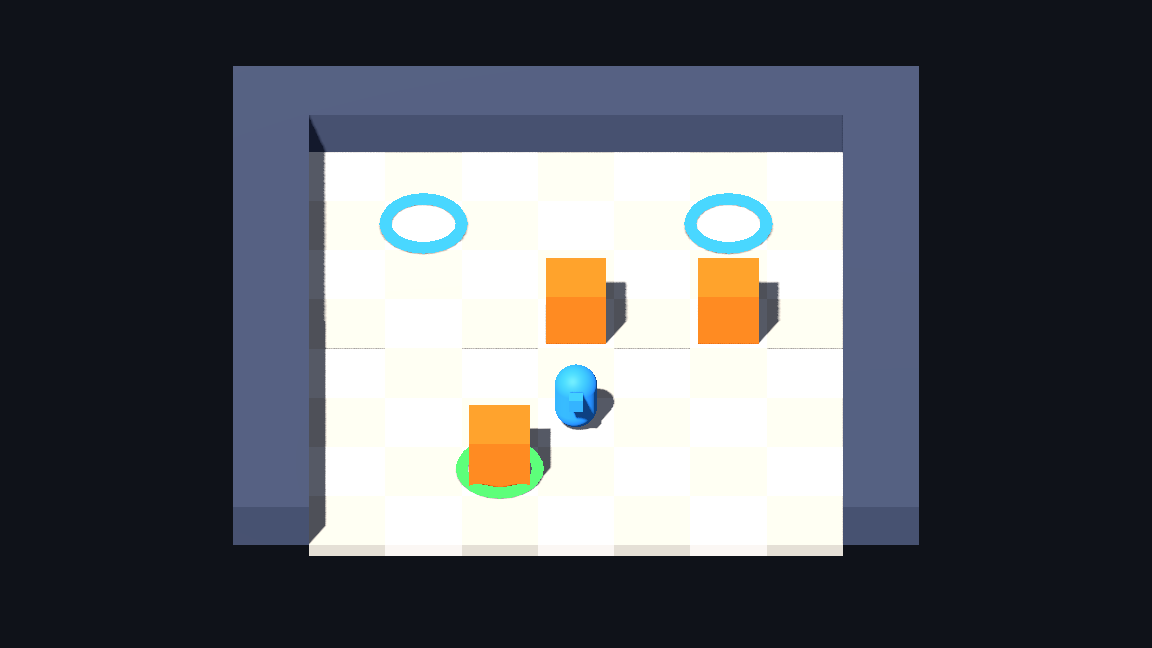
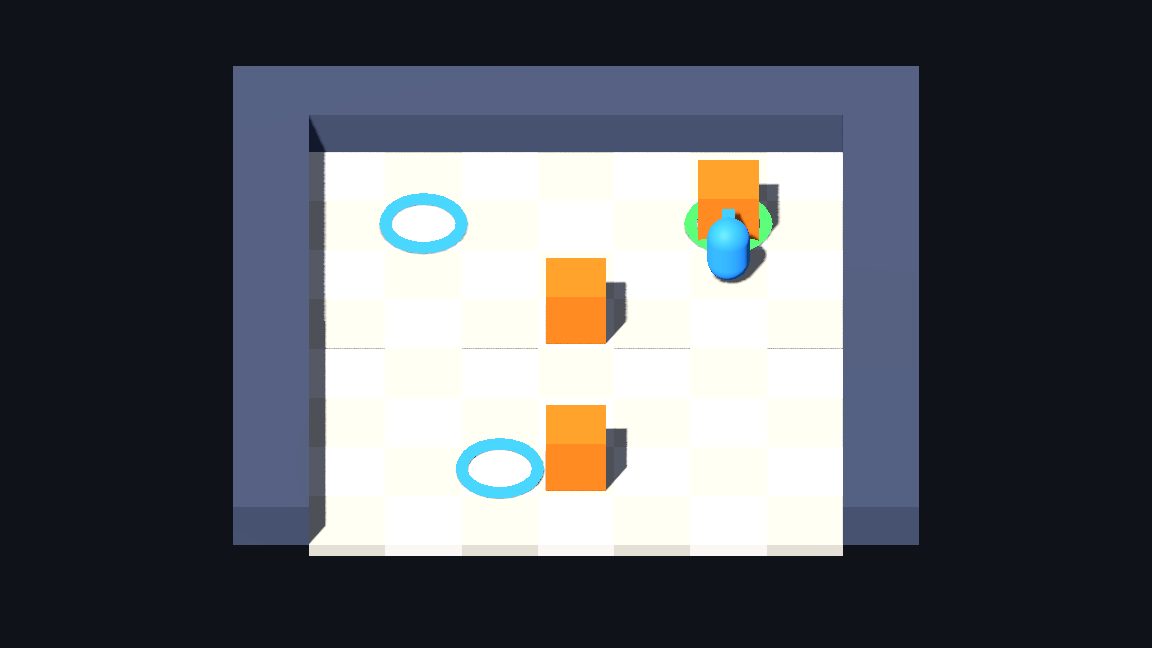
evidence: recapture story-001 with --demo=pushed

Changed region(s): [[0.375, 0.5556, 0.5625, 0.7716], [0.5938, 0.2469, 0.6875, 0.5556]]

diff --git a/production/qa/evidence/story-001/index.md b/production/qa/evidence/story-001/index.md
@@ -1,8 +1,8 @@
 # Evidence: story-001
 
-Run result: OBSERVED — the 1152x648 window shows the 3D diorama: a pale checker floor inside slate walls, three orange crates, a blue player capsule, two cyan empty goal rings, and one green placed-goal ring under the crate at (3, 7).
+Run result: OBSERVED — the 1152x648 frame captured with --demo=pushed shows exactly one crate on the (6, 2) goal (green ring) and the other two goals (2, 2) and (3, 7) empty (cyan rings), with the player at (6, 3); the same occupancy and player cell are asserted by the headless demo test.
 
-- `story-001-1.png` — `python scripts/studio.py capture --out production/qa/evidence/story-001/story-001-1.png`: the playable board at start; the crate on the goal shows the green ring, while the two empty goals at (2, 2) and (6, 2) show cyan rings.
-- `check.log` — `python scripts/studio.py check` output: exit 0, `[check] import OK`, and all five changed scripts parse.
-- `test.log` — `python scripts/studio.py test` output: exit 0, `PASS: 46 checks passed`; the three `ERROR: level '<id>'` lines are the expected loader rejections asserted by the test.
-- `capture.log` — `python scripts/studio.py capture --out production/qa/evidence/story-001/story-001-1.png` output: exit 0, a 1152x648 PNG of 28391 bytes, no script errors.
+- `story-001-1.png` — `python scripts/studio.py capture --out production/qa/evidence/story-001/story-001-1.png -- --demo=pushed`: the demo-pushed frame; the crate on (6, 2) sits inside the green placed-goal ring, the empty goals at (2, 2) and (3, 7) show cyan rings, and the other two crates stay on floor.
+- `check.log` — `python scripts/studio.py check` output: exit 0, `[check] import OK`, and all changed scripts (including `src/sokoban_demo.gd`) parse.
+- `test.log` — `python scripts/studio.py test` output: exit 0, `PASS: 58 checks passed`; the demo test asserts exactly one crate on a goal, the other goals empty, and the player at (6, 3); the three `ERROR: level '<id>'` lines are the expected loader rejections.
+- `capture.log` — `python scripts/studio.py capture --out production/qa/evidence/story-001/story-001-1.png -- --demo=pushed` output: exit 0, a 1152x648 PNG of 28379 bytes, user arguments `--demo=pushed`.

diff --git a/production/stories/story-001.md b/production/stories/story-001.md
@@ -17,6 +17,9 @@ Visual direction follows the design's proposed "minimal geometric diorama":
 pale stone floor tiles, slate wall blocks, warm orange crates, and glowing
 sockets for goals. Camera sits at a fixed 40° pitch with yaw 0 over the level.
 
+The screenshot-only `--demo=pushed` flag applies a fixed push sequence so the
+evidence frame shows one placed crate. Normal runs never execute it.
+
 ## Acceptance
 
 - [x] The level loads from `assets/data/levels/level-001.json` (one 9x9 grid, walls,
@@ -30,11 +33,13 @@ sockets for goals. Camera sits at a fixed 40° pitch with yaw 0 over the level.
 - [x] Pressing a direction key toward a wall, or toward a crate whose far cell is blocked
       (wall, crate, or grid edge), changes no cell and no counter, but the player still
       turns to face that direction.
-- [x] The board renders in 3D in one frame at 1152x648: floor, walls, goals, crates and
-      the player are all distinguishable, and a goal under a crate reads differently from
-      an empty goal.
-- [x] `python scripts/studio.py check` and `python scripts/studio.py test` both exit 0,
-      and the headless tests cover the three loader rejections plus R4, R5 and R6.
+- [x] `capture_command` run with `-- --demo=pushed` captures a frame where exactly one
+      crate is on a goal and another goal is visibly empty; floor, walls, crates and the
+      player stay distinguishable in the same 1152x648 3D frame.
+- [x] `python scripts/studio.py check` and `python scripts/studio.py test` both exit 0;
+      the headless tests cover the three loader rejections, R4, R5 and R6, and the
+      `--demo=pushed` sequence ends with exactly one crate on a goal and the other goals
+      empty.
 
 ## Out of scope
 
